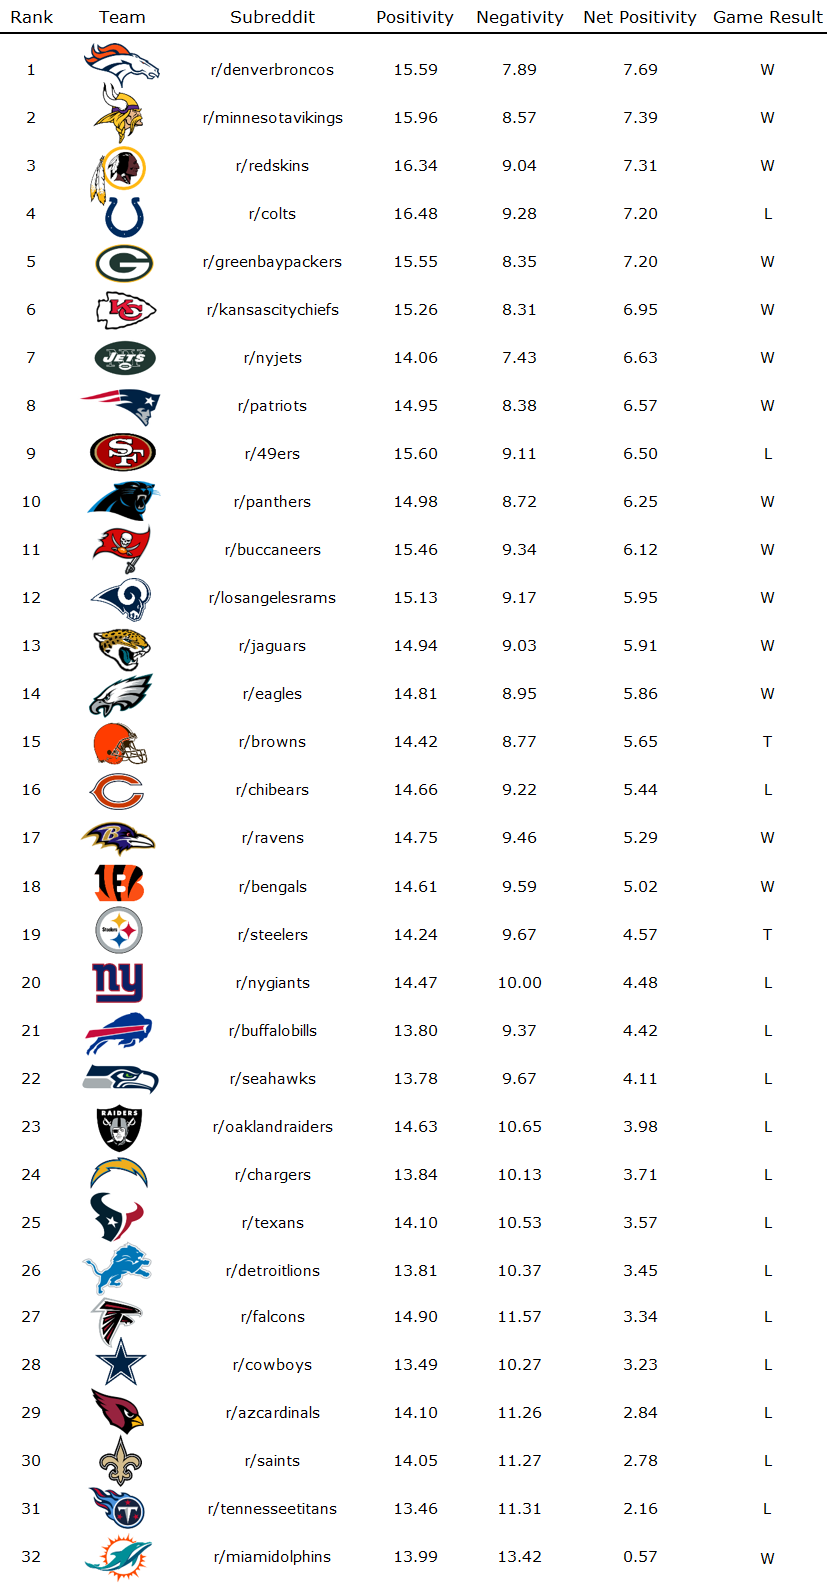
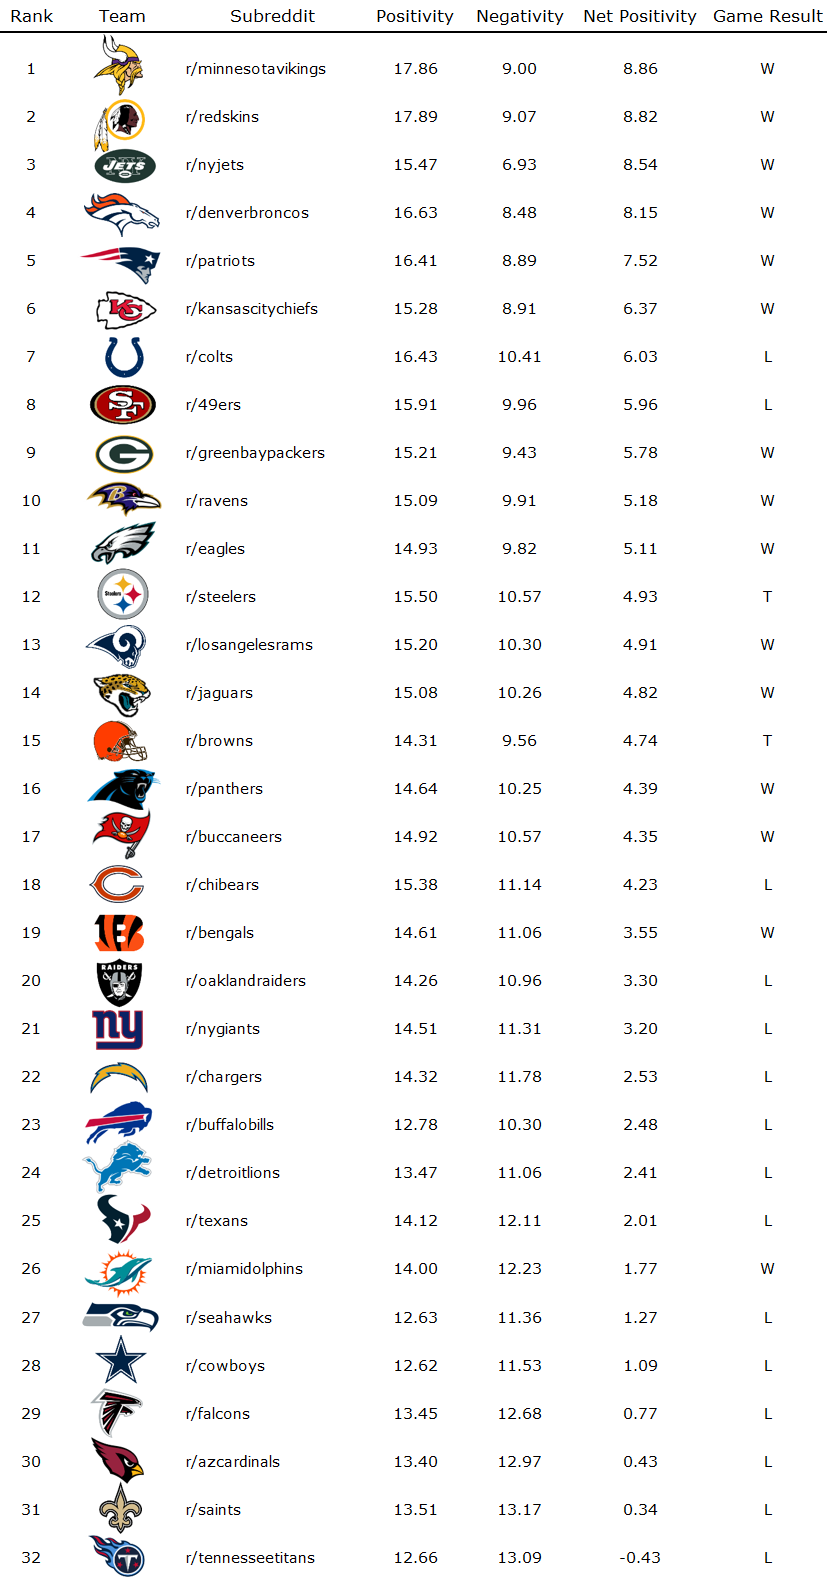
See changelog 0.20

diff --git a/_posts/2018-09-13-nfl-week1.md b/_posts/2018-09-13-nfl-week1.md
@@ -14,7 +14,7 @@ After the Bills-Ravens game mercifully concluded, with Baltimore walloping Buffa
 
 Intuition might suggest that since Buffalo had lost by the largest margin of any team in the league, their fanbase would have been the most negatively impacted by the loss. On the other hand, the Bills were largely expected to struggle this season; after all, they traded starting quarterback Tyrod Taylor in March, and were starting a quarterback who had, less than a year ago, thrown [five interceptions](https://www.youtube.com/watch?v=i5X3fYIbGQA) in only one half of play. A fun exercise, therefore, would be quantifying Bills fans’ negativity – was the Buffalo subreddit demonstrably the most negative of all thirty-two teams? And if not, which fanbase had the worst Week 1?
 
-First, I scraped thousands of rows of data for each NFL team, with each row representing a comment for any post left on that team’s subreddit between noon on Thursday, September 9 and 4:00 PM on Tuesday, September 11. A Python library, [*PRAW*](https://praw.readthedocs.io/en/latest/index.html), exists for the express purpose of scraping Reddit submissions and comments, and although *PRAW* can collect only the thousand most recent posts in a subreddit, this proved a non-issue, as no team’s subreddit had even close to that many posts in such a short time span.
+First, I scraped thousands of rows of data for each NFL team, with each row representing a comment for any post left on that team’s subreddit between the start of their Week 1 game and a full twenty-four hours after the start of their Week 1 game. A Python library, [*PRAW*](https://praw.readthedocs.io/en/latest/index.html), exists for the express purpose of scraping Reddit submissions and comments, and although *PRAW* can collect only the thousand most recent posts in a subreddit, this proved a non-issue, as no team’s subreddit had even close to that many posts in such a short time span.
 
 After data collection, I used the *VADER SentimentIntensityAnalyzer* algorithm within Python’s *nltk* library to perform sentiment analysis on each individual comment. Sentiment analysis determines the overall positivity or negativity in a given piece of text, as well as the sentiment’s overall intensity (or “polarity”), while also accounting for slang, negation, and strength of language. Every subreddit comment is given four scores: positivity, negativity, neutrality (i.e., neither positive nor negative), and “compound,” which is an amalgam of the others. While a comment can be partly positive, partly negative, and partly neutral, all three scores must sum to 1 (see the [attached link](http://www.nltk.org/howto/sentiment.html) for examples). While all individual positivity, negativity, and neutrality scores can take values in the range [0, 1], I will be multiplying every score by a hundred for ease of reading.
 
@@ -26,23 +26,19 @@ But enough of the boring technical details – on to the results!
 
 As follows is a scatterplot of the positivity and negativity of each subreddit’s average comment between Thursday and Tuesday nights. The happiest fanbases (i.e., the subreddits with the highest average positivity and lowest average negativity) appear in the lower right-hand corner of the plot, and the least happy fanbases appear in the upper-left. Each data point has also been color-coded in accordance with the outcome of that team’s game.
 
-<center><img src="{{ site.url }}{{ site.baseurl }}/images/nfl-week1/sentiment_plot.png" alt="sentiment plot"></center><br>
+<center><img src="{{ site.url }}{{ site.baseurl }}/images/nfl-week1/sentiment_week1.png" alt="sentiment plot, week 1"></center><br>
 
-While Buffalo may have suffered the worst loss of Week 1, their rivals in Miami had by far the highest average negative sentiment across the league. Much of this can likely be attributed to the lightning storms that twice delayed their opening game. The Titans, in fact, had the lowest mean positivity score across the league. Sitting through [the longest game in NFL history](http://www.espn.com/nfl/story/_/id/24630193/titans-dolphins-game-goes-nfl-record-7-hours-8-minutes) clearly soured the mood of both Dolphins and Titans fans.
+While Buffalo may have suffered the worst loss of Week 1, their fanbase actually had nowhere near the highest mean negativity in the league. That honor instead goes to the New Orleans Saints, who squeaked by the Tennessee Titans (by less than a one-hundredth of a percentage point!) to be titled the league's most negative Week 1 fanbase. Tennessee, however, *also* has a significantly lower mean positivity score than New Orleans, and are the only team in the league with a lower average positivity than average negativity. Sitting through [the longest game in NFL history](http://www.espn.com/nfl/story/_/id/24630193/titans-dolphins-game-goes-nfl-record-7-hours-8-minutes) clearly soured the mood of Titans fans, and losing their starting [quarterback](https://www.tennessean.com/story/sports/nfl/titans/2018/09/09/marcus-mariota-titans-injury-miami-dolphins/1250846002/) and [tight end](https://www.cbssports.com/nfl/news/delanie-walker-reportedly-out-for-season-after-suffering-gruesome-leg-injury-vs-dolphins/) to injuries - as well as the game itself - certainly didn't help matters.
 
-Aside from Miami and Tennessee, we can observe that the Cowboys, Lions, Saints, Cardinals, and Falcons’ fanbases – all of whom watched their respective teams lose – also had particularly rough weeks. For the most part, the graph cleanly splits between winning and losing teams; [*r/Colts*](https://www.reddit.com/r/Colts/) and [*r/49ers*](http://reddit.com/r/49ers), however, both buck this trend, with the former subreddit actually finishing the weekend with the highest positivity score in the league.
+We can also observe the weather delay's affect on Miami fans. Although the Dolphins won the game, their mean positivity and negativity scores land them firmly among Week 1 losers Atlanta and Houston. For the most part, however, the graph cleanly splits between winning and losing teams; [*r/Colts*](https://www.reddit.com/r/Colts/) and [*r/49ers*](http://reddit.com/r/49ers) both buck this trend, with the former subreddit actually finishing the weekend with the highest positivity score in the league. The Colts, in fact, finish with both higher positivity and lower negativity than the Bengals - even though Cincinnati won their matchup!
 
-Also of note is the relative proximity between the Steelers and Browns data points after the teams tied. It stands to reason that while neither fanbase is overly enthusiastic after a draw - indeed, the two points are very close to each other - Cleveland’s data point still lies further toward the bottom-right corner than that of Pittsburgh. While simply not losing was an accomplishment for the Browns, the Steelers expected to emerge victorious, and their fans, therefore, were likely more negative both during the game and after its conclusion.
+The Redskins and Vikings clearly have the two happiest fanbases of Week 1, as both teams emerged victorious in their opening games - the latter, incidentally, over the (curiously positive) 49ers. Also of note is that while New York Jets fans had the lowest negativity score in the league – which makes sense, given the fantastic Week 1 play of rookie quarterback Sam Darnold – they still finished with a relatively moderate positivity score. Perhaps years of disappointment have simply left the Jets fanbase incapable of happiness.
 
-Additionally, while New York Jets fans had the lowest negativity score in the league – which makes sense, given the fantastic Week 1 play of rookie quarterback Sam Darnold – they still finished with a relatively low positivity score. Perhaps years of disappointment have simply left the Jets fanbase incapable of happiness.
-
-So how do we definitively decide which fanbases had the best and worst Week 1 in the league? By subtracting each subreddit’s mean negativity from its mean positivity, we can rank teams by their *net positivity scores*. Here are the results, ranked from best to worst:
+So how do we definitively decide which team's fans had the best and worst Week 1 in the league? By subtracting each subreddit’s mean negativity from its mean positivity, we can rank teams by their *net positivity scores*. Here are the results, ranked from best to worst:
 
 <center><img src="{{ site.url }}{{ site.baseurl }}/images/nfl-week1/sentiment_rankings.png" alt="sentiment rankings"></center><br>
 
-According to net positivity, the Denver Broncos’ fanbase had the happiest Week 1, with the Miami Dolphins finishing last. Looking at the *Game Result* column, we can still observe a fairly clean split between winning teams and losing teams, showing that fanbases of winning teams do exhibit more positivity than fanbases of losing ones. Winning margin, however, appears to play little part in a team’s ranking; the #1-ranked Broncos won their matchup by just three points, while the #17 Ravens beat the Bills by over forty. Interestingly, the entire AFC North – regardless of win, loss, or tie – huddles around the middle of the rankings; the Ravens and eighteenth-ranked Bengals both won their games, but still finished with less net positivity than Cleveland.
-
-Also notable is the mammoth gap between the Dolphins’ net positivity score (0.57) and that of the 31st-ranked Titans (2.16). We've already discussed the impact of the long rain delay on both fanbases' sentiment - but maybe post-by-post analysis can help us pinpoint the specific reason for such a large gap…
+By net positivity, the **Minnesota Vikings**' fanbase had the happiest Week 1, and the **Tennessee Titans**' fanbase had the worst. Looking at the *Game Result* column, we can still observe a fairly clean split between winning teams and losing teams, showing that fanbases of winning teams generally exhibit more positivity than fanbases of losing ones. Winning margin, however, appears to play little part in a team’s ranking; the #1-ranked Vikings won their matchup by eight points, while the #10 Ravens beat the Bills by over forty.
 <hr>
 **Posts**
 
@@ -50,15 +46,15 @@ As follows are the individual posts which resulted in comments with the highest 
 
 Here are the three most positive posts, along with each post’s mean positivity score and relevant team:
 
-1. Patriots (49.2): [Phillip Dorsett becomes the 69th player to catch a TD from Tom Brady](https://www.reddit.com/r/Patriots/comments/9egslx/phillip_dorsett_becomes_the_69th_player_to_catch/)
-2. Packers (34.1): [The Office: Green Bay Packers edition!](https://www.reddit.com/r/GreenBayPackers/comments/9e99eh/the_office_green_bay_packers_edition/)
-3. Patriots (33.9): [Over at /r/Texans, we make a weekly hype video, mashing up a movie trailer with our opponent. Since we have y’all on Sunday in New England, here’s our trailer! “Marvel: The Texans- Infinity War”](https://www.reddit.com/r/Patriots/comments/9dy2uu/over_at_rtexans_we_make_a_weekly_hype_video/)<br>
+1. Patriots (50.3): [Phillip Dorsett becomes the 69th player to catch a TD from Tom Brady](https://www.reddit.com/r/Patriots/comments/9egslx/phillip_dorsett_becomes_the_69th_player_to_catch/)
+2. Bears (31.8): [Game day giveaway!](https://www.reddit.com/r/CHIBears/comments/9efiim/game_day_giveaway/)
+3. Bears (25.0): [Aaron Rodgers](https://www.reddit.com/r/CHIBears/comments/9eicbr/aaron_rodgers/)<br>
 
 Now, as follows are the three most negative posts of Week 1. If you look closely, you might spot a common theme (one that might help explain a certain phenomenon in an earlier section):
 
-1. Dolphins (44.6): [IT’S F*** THE JETS WEEK](https://www.reddit.com/r/miamidolphins/comments/9ekwsx/its_fuck_the_jets_week/)
-2. Dolphins (35.6): [Sam Darnold’s first pass is a pick f*** the Jets](https://www.reddit.com/r/miamidolphins/comments/9es4a1/sam_darnold_first_pass_is_a_pick_6_fuck_the_jets/)
-3. Dolphins (24.3): [Yo so the Jets actually look aight](https://www.reddit.com/r/miamidolphins/comments/9et5bg/yo_so_the_jets_actually_look_aight/)
+1. Dolphins (44.5): [IT’S F*** THE JETS WEEK](https://www.reddit.com/r/miamidolphins/comments/9ekwsx/its_fuck_the_jets_week/)
+2. Lions (36.0): [Everyone say it with me](https://www.reddit.com/r/detroitlions/comments/9et20t/everyone_say_it_with_me/)
+3. Ravens (20.9): [Bills fans being classy towards Matt Judon...](https://www.reddit.com/r/ravens/comments/9ei71y/bills_fans_being_classy_towards_matt_judon/)
 <hr>
 **Comments**
 
@@ -67,65 +63,62 @@ Just as we did on a post-by-post level, we can also identify the overall most po
 Here are the three most positive comments of Week 1:
 
 1. Browns (57.2): [“Feeling pretty good about this. They played like they belonged and I feel like we woulda won if not for the weather.”](https://www.reddit.com/r/Browns/comments/9eiuuz/well/e5pe6tt/) *(Long_island_iced_Z)*
-2. Patriots (57.0): [“That was amazing, great work! The 6 stones and banner reference made me laugh! Good luck Sunday, let’s hope it’s injury free.”](https://www.reddit.com/r/Patriots/comments/9dy2uu/over_at_rtexans_we_make_a_weekly_hype_video/e5kxvpr/) *(Kingjimmy666)*
-3. Packers (51.7): [“Seems to have a great attitude and puts team success over personal success. You love having guys like that in the locker room.”](https://www.reddit.com/r/GreenBayPackers/comments/9erk5y/jimmy_graham/e5qzj0g/) *(IsYouWitItYaBish)*<br>
+2. Ravens (54.2): [“Baltimore Ravens - 2000 - 4-0 - 12-4 - NFL Champion / Won the Super Bowl. Seems like good news to me!”](https://www.reddit.com/r/ravens/comments/9eh91z/congratulations_to_the_baltimore_ravens_for_being/e5p3sfj/) *(NeonFlame126)*
+3. Rams (51.6): [“I loved when McVay ran down there to hug Peters and celebrate with him. Our coach is the best.”](https://www.reddit.com/r/LosAngelesRams/comments/9eurti/marcus_peters_pick_six_and_the_amazing_celebration/e5rqorm/) *(mynameisdan6)*<br>
 
 And the three most negative:
 
-1. Packers (60.2): [“He was p\*\*\*ing me off so much yesterday. Poor contain, poor tackling, poor coverage in the flat, and that stupid a** penalty.”](https://www.reddit.com/r/GreenBayPackers/comments/9epw8f/andy_herman_on_twitter_clay_matthews_with_a/e5qpass/) *(ImaTurtle6)*
-2. Jets (48.8): [“Sam would also beat his a\*\* in a street fight. Edit: super disappointed in myself I forgot this, F\*\*\* the pats”](https://www.reddit.com/r/nyjets/comments/9dr93o/fun_fact_tom_brady_chose_the_number_12_because_it/e5jjhna/) *(Randyfreakingmarsh)*
-3. Bengals (44.7): [“F** THE NFL PANSY RULES, F\*\*\* THE REFS, F\*\*\* AJ'S FUMBLEITIS, AND HARDCORE F\*\*\* THE ANDREW LUCK COMEBACK NARRATIVE B\*\*\*\*\*\*\* AND THE STEELERS! WHO DEY!”](https://www.reddit.com/r/bengals/comments/9eg0hf/bengals_win_fejedelem_mvp_upvote_party/e5olsbu/) *(PM_Me_Your_PBnJ)*
-<hr>
+1. Panthers (53.4): [“DIRTY F****** B*******. SHOVING YOUR HELMET INTO A GUY'S KNEE. THAT DUDE GO GET F*****. F*** THE COWBOYS.”](https://www.reddit.com/r/panthers/comments/9efuh6/opening_day_game_thread_dallas_cowboys_00_at/e5oxmaj/) *(nglove492)*
+2. Bengals (44.7): [“F** THE NFL PANSY RULES, F\*\*\* THE REFS, F\*\*\* AJ'S FUMBLEITIS, AND HARDCORE F\*\*\* THE ANDREW LUCK COMEBACK NARRATIVE B\*\*\*\*\*\*\* AND THE STEELERS! WHO DEY!”](https://www.reddit.com/r/bengals/comments/9eg0hf/bengals_win_fejedelem_mvp_upvote_party/e5olsbu/) *(PM_Me_Your_PBnJ)*
+3. Eagles (42.7): ["We force a punt and then pull that s***. Completely unacceptable, standards have to be higher. Sit that f***er"](https://www.reddit.com/r/eagles/comments/9dp067/game_thread_week_1_atlanta_falcons_00_at/e5jbuqv/)*(philcoke12)*<hr>
 **Words**
 
 Finally, we can use *nltk*’s *FreqDist* function to identify common words contained in each subreddit’s most negative comments. This way, we can achieve a rough idea of what specific topics have inspired the most negativity for each fanbase.
-I have removed all curse words from the following results, but rest assured that *every single team’s* list of most common negatively-associated words included at least four or five curses.
+I have removed all curse words from the following results, but rest assured that *every single team’s* list of most common negatively-associated words included at least four or five curses. Results have also been lightly edited for brevity.
 
 ```
-r/49ers: jimmy (6), cancer (5)
-r/azcardinals: suck (9), rosen (7), bradford (7), riot (6)
-r/bengals: steelers (16), penalty (12), nfl (9), blah (6)
-r/browns: steelers (11), sucks (11), offense (10)
-r/buccaneers: saints (12), fire (11), cannons (6), smith (6)
-r/buffalobills: tyrod (6), really (6), suck (5), line (5)
-r/chargers: hate (6), chiefs (5), bolt (5), cut (5)
-r/chibears: packers (23), hate (20), loss (13)
-r/colts: johnson (8), kevin (7), call (6), watson (6)
-r/cowboys: offense (19), fire (17), dak (12), romo (9)
-r/denverbroncos: raiders (17), hate (8)
-r/detroitlions: sorry (15), die (14), fire (13)
-r/eagles: penalty (13), hate (9)
-r/falcons: sark (24), offense (13), game (13), hate (10), fire (10)
-r/greenbaypackers: bears (22), suck (21)
-r/jaguars: offense (7), penalty (7), dumb (6)
-r/kansascitychiefs: defense (7), sutton (4), cry (3), raiders (3)
-r/losangelesrams: hold (11), gruden (5), dirt (5), pick (4)
-r/miamidolphins: jets (774), bills (57), patriots (46), suck (7)
-r/minnesotavikings: rodgers (14), hate (10)
-r/nygiants: flowers (19), line (9), offensive (9), cut (8)
-r/nyjets: hate (7), hurt (7), suck (5), pats (5)
-r/oaklandraiders: carr (19), talib (17), hate (16), mack (14)
-r/panthers: hate (5), fire (4)
-r/patriots: brady (10), hate (8), lions (7)
-r/ravens: steelers (15), bills (13), hate (7)
-r/redskins: dallas (7), giants (5), cowboys (4)
-r/saints: falcons (13), hate (9), ryan (8)
-r/seahawks: announcers (12), ifedi (8), fire (6), offense (5)
-r/steelers: ben (13), offense (9), penalty (8)
-r/tennesseetitans: dolphins (9), hate (8), worst (8), refs (7)
-r/texans: johnson (8), kevin (7), call (6), watson (6)
+49ers (r/49ers): jimmy (5), cancer (4), injury (4)
+Bears (r/chibears): packers (10), loss (9), collinsworth (8)
+Bengals (r/bengals): penalty (11), nfl (9), steelers (8), dirty (4), refs (4)
+Bills (r/buffalobills): tyrod (6), benjamin (5), terrible (4), peterman (4)
+Broncos (r/denverbroncos): raiders (6), von (6), offense (4)
+Browns (r/browns): hue (6), sucks (6), offense (6)
+Buccaneers (r/buccaneers): fire (10), saints (10), smith (6), cannons (5)
+Cardinals (r/azcardinals): rosen (7), bradford (7), riot (6), mccoy (5)
+Chargers (r/chargers): cut (5), hate (5), us (5)
+Chiefs (r/kansascitychiefs): defense (6), terrible (3), crazy (3), killing (3)
+Colts (r/colts): mad (4), doyle (4), hit (4)
+Cowboys (r/cowboys): fire (15), offense (13), romo (9), dak (9)
+Dolphins (r/miamidolphins): jets (119), bills (29), patriots (17), delay (5)
+Eagles (r/eagles): penalty (11), collinsworth (7), sullivan (5), brutal (4)
+Falcons (r/falcons): sark (23), offense (11), fire (10), refs (9), ryan (8)
+Giants (r/nygiants): flowers (17), cut (7), dallas (6), offensive (4)
+Jaguars (r/jaguars): penalty (7), offense (6), dumb (6), cam (5)
+Jets (r/nyjets): hate (5), announcers (3), sad (3), suck (3)
+Lions (r/detroitlions): die (18), fire (14), sorry (11)
+Packers (r/greenbaypackers): bears (15), suck (15), miss (9)
+Panthers (r/panthers): hate (5), lawrence (4), saints (4)
+Patriots (r/patriots): hate (5), hill (5), post (4), pissed (4), brady (4)
+Raiders (r/oaklandraiders): carr (18), talib (17), gruden (9), hate (8)
+Rams (r/losangelesrams): hold (12), cook (5), gruden (5), dirt (5), jared (4)
+Ravens (r/ravens): steelers (8), fans (6), bills (5)
+Redskins (r/redskins): dallas (4), peterson (3), viking (3), giants (3)
+Saints (r/saints): ryan (7), rob (6), pizza (6), offense (5)
+Seahawks (r/seahawks): announcers (12), ifedi (7), refs (5)
+Steelers (r/steelers): ben (11), offense (9), penalty (7), haley (7)
+Texans (r/texans): johnson (8), kevin (7), watson (5)
+Titans (r/tennesseetitans): worst (8), refs (7), dolphins (7)
+Vikings (r/minnesotavikings): rodgers (13), rule (8), bears (5)
 ```
 
 A few takeaways:
 
-*	Bengals, Browns, and Ravens fans *all* associate the Steelers with negativity – even though only Cleveland played them in Week 1.
-  * The Broncos and Chiefs’ subreddits express similar sentiment towards Oakland, and the Saints’ fanbase has a special hatred for Matt Ryan and the Falcons.
-  *	Dolphins fans exhibit negativity towards their entire division, but *especially* towards the Jets (as we learned in the *Posts* section).
-*	Bills fans still miss Tyrod Taylor.
-*	Atlanta’s fanbase is fed up with their offensive coordinator, Steve “Sark” Sarkisian.
+*	Dolphins fans exhibit negativity towards their entire division, but *especially* towards the Jets (as we learned in the *Posts* section).
+*	Bills fans still miss Tyrod Taylor, and are less than thrilled with wideout Kelvin Benjamin.
+*	Atlanta’s fanbase is fed up with their offensive coordinator.
 *	Giants fans have seen enough of offensive tackle Ereck Flowers.
-*	[*r/oaklandraiders*](https://www.reddit.com/r/oaklandraiders/) is concerned with the recent play of Derek Carr. They also associate departed linebacker Khalil Mack and opposing cornerback Aqib Talib with negativity.
-*	Seattle fans were evidently displeased with the announcers of their game against Denver.
+*	[*r/oaklandraiders*](https://www.reddit.com/r/oaklandraiders/) is concerned with the recent play of Derek Carr. They also associate new coach Jon Gruden and opposing cornerback Aqib Talib with negativity.
+*	Seahawks and Jets fans were both evidently displeased with the announcers of their respective games. Bears fans seemed particularly upset with NBC commentator Cris Collinsworth.
 <hr>
 Thank you for reading - I hope you enjoyed the project! For anyone interested in using *PRAW* to scrape Reddit, [this](http://www.storybench.org/how-to-scrape-reddit-with-python/) tutorial can get you started.
 
